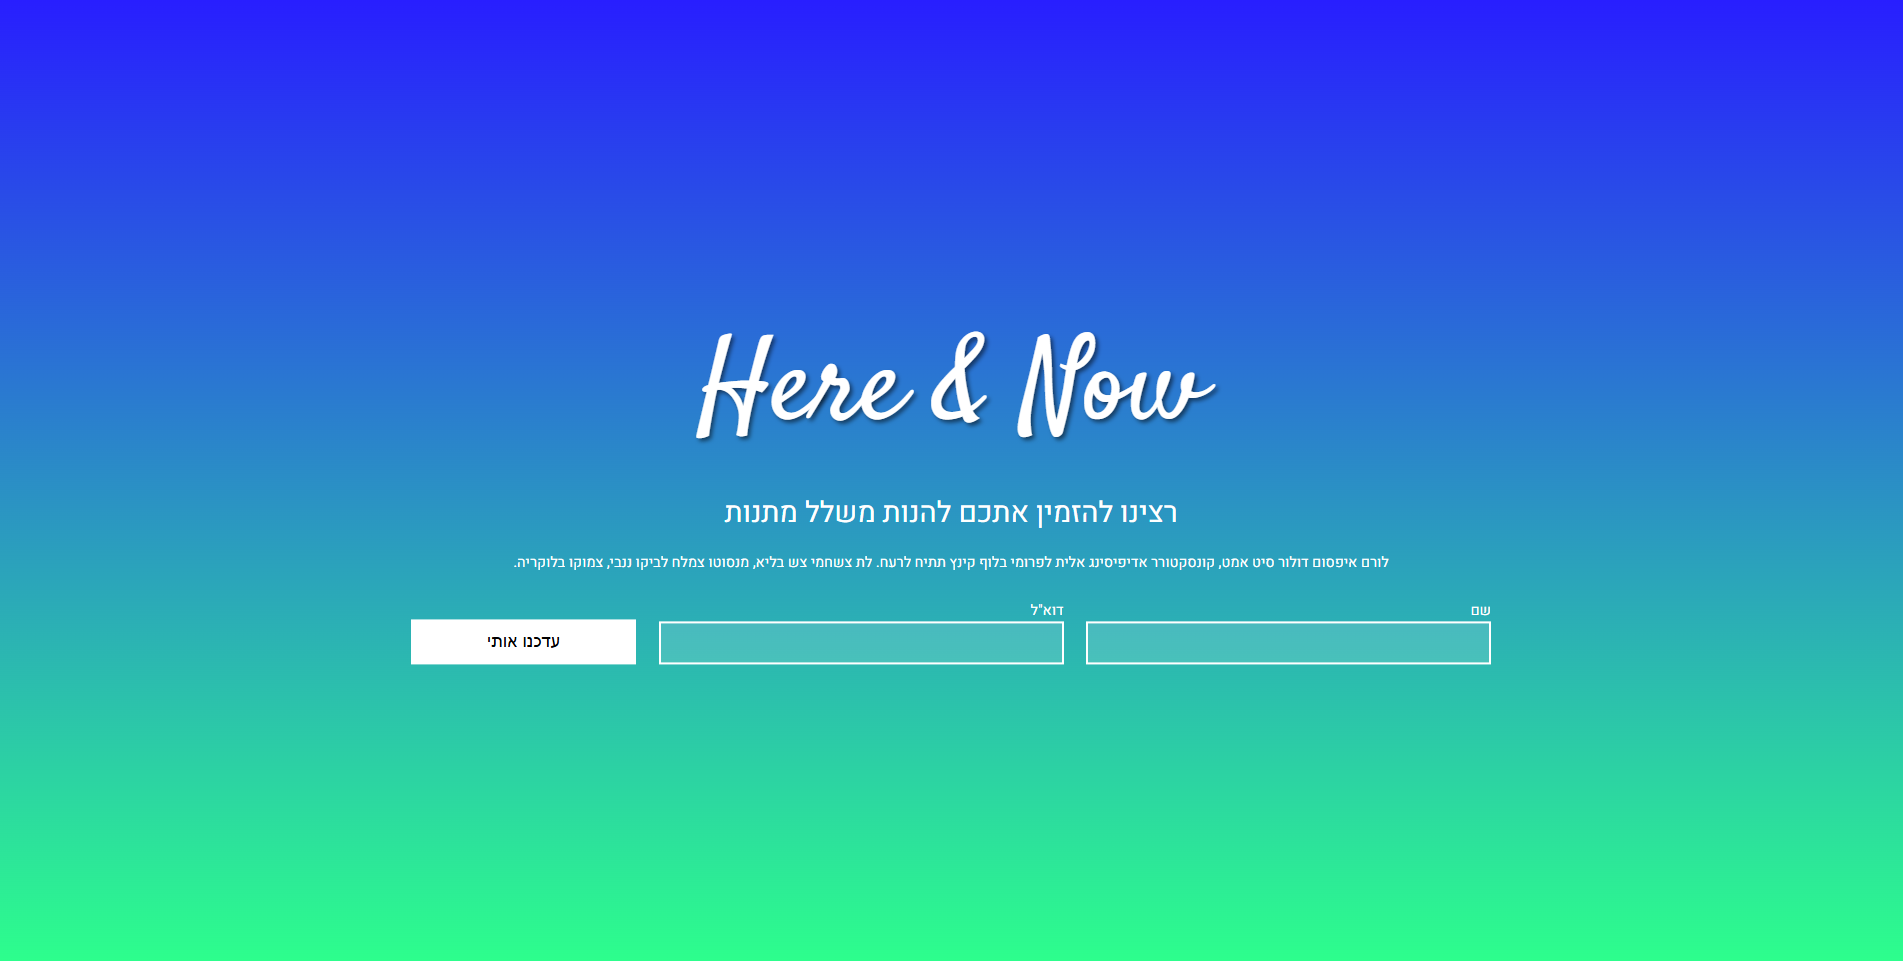
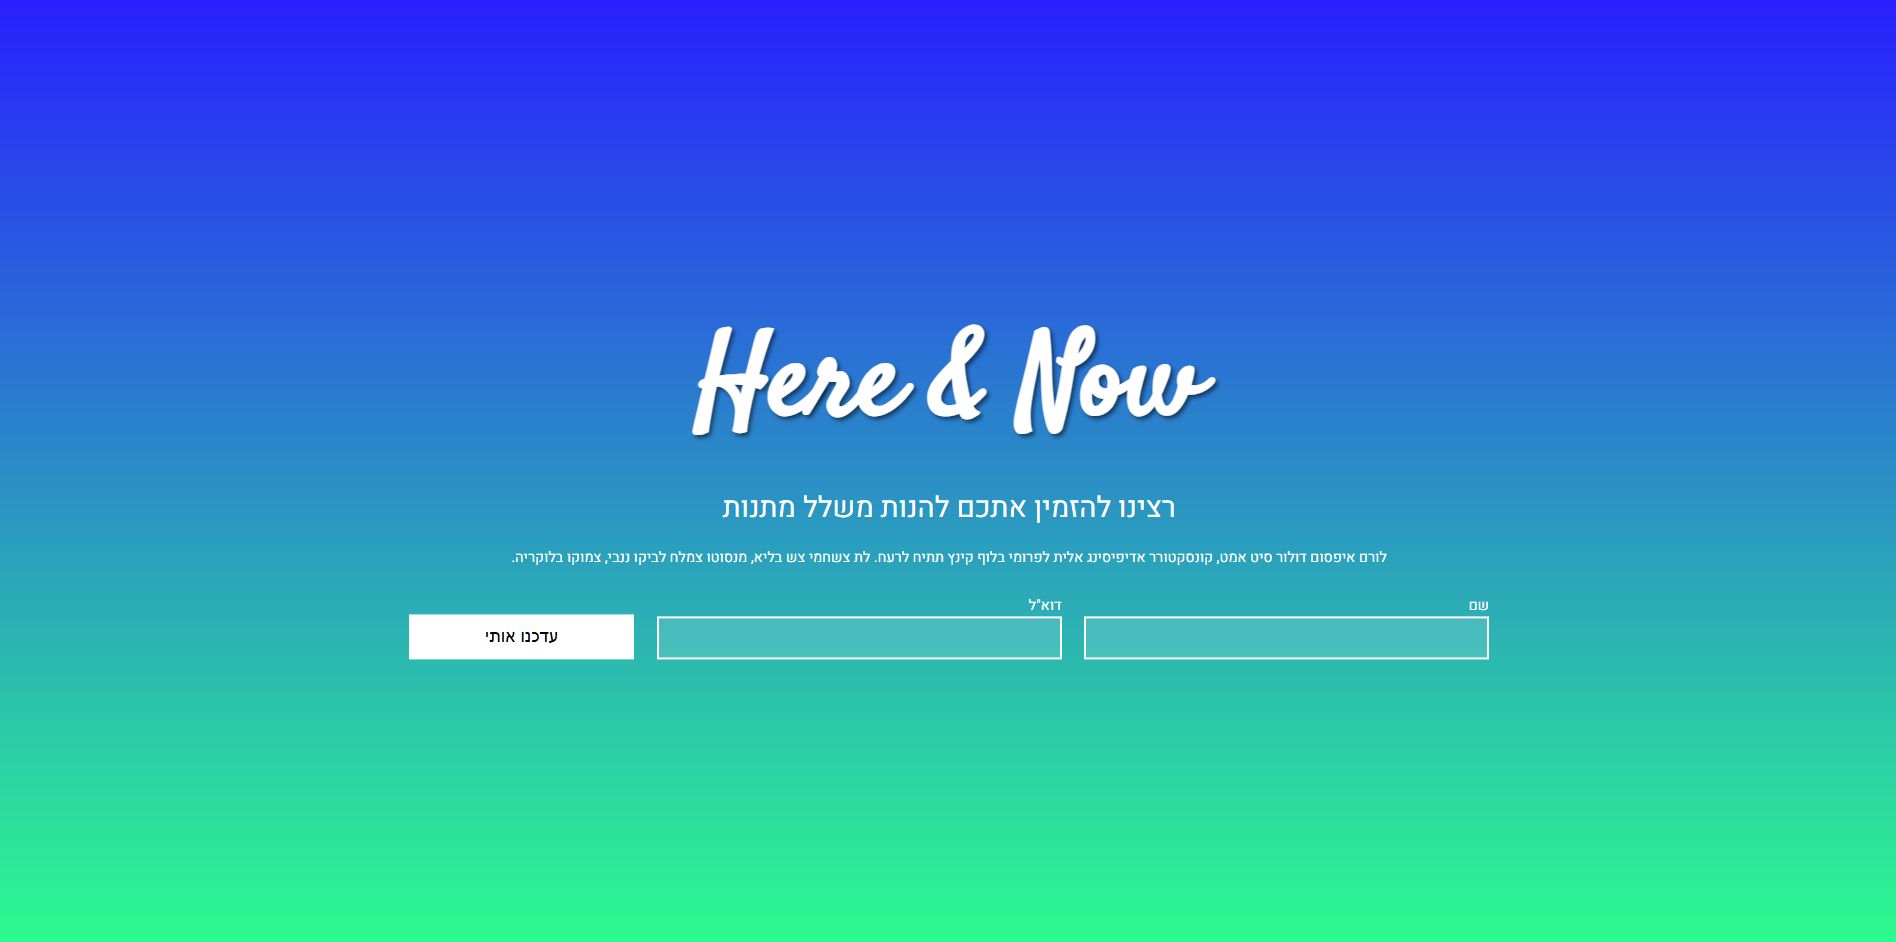
responsive - fixed

Changed region(s): [[0.2178, 0.5234, 0.8091, 0.7081], [0.3423, 0.3386, 0.6535, 0.4618]]

diff --git a/projects/project2/project2.css b/projects/project2/project2.css
@@ -37,7 +37,8 @@ label {
     margin: 0 auto;
     align-items: center;
     justify-content: space-between;
-    width: 1200px;
+    max-width: 1200px;
+    width: 100vw;
 }
 
 .container form {
@@ -46,8 +47,8 @@ label {
     display: flex;
     justify-content: space-between;
     margin: 10px;
-    align-items: end;
-
+    align-items: center;
+    gap: 20px;
 }
 
 .form-control {
@@ -67,8 +68,7 @@ input[type="email"] {
     font-weight: bold;
     color: var(--primary-color);
     line-height: 1.5;
-    height: 3em;
-    width: calc(100vw / 2 - 150px);
+    width: calc((80vw / 2) - 150px);
     max-width: calc(1200px / 2 - 150px);
     border: 3px solid var(--primary-color);
 }
@@ -96,7 +96,7 @@ input[type="submit"]:hover {
 
 .container-form-title h1 {
     font-size: 8rem;
-    font-weight: 400;
+    font-weight: regular;
     margin: 20px;
     font-family: "Satisfy", serif;
     text-shadow: #00000087 3px 3px 5px;
@@ -113,38 +113,36 @@ input[type="submit"]:hover {
     margin: 20px;
 }
 
-@media (max-width: 768px) {
-    .container {
-        flex-direction: column-reverse;
-
+@media (max-width: 1199.98px) {
+    .container form {
+        flex-direction: column;
     }
 
-    .container-img {
-        width: 100vw;
+    .form-control {
+        max-width: none;
     }
 
-    .container-img img {
-        height: 40vh;
-    }
-
-    .container-form {
-        width: 100vw;
-    }
-
-    .container-form-title {
-        margin-top: 2em;
-    }
-
-    input[type="submit"] {
-        width: 100%;
-        margin-top: 2em;
-        max-width: 420px;
+    .container form {
+        flex-direction: column;
+        align-items: center;
     }
 
     input[type="text"],
     input[type="email"] {
-        font-size: 1rem;
-        height: 2em;
-
+        width: 80vw;
+        max-width: none;
     }
-}
+
+    input[type="submit"] {
+        width: 80vw;
+    }
+
+    @media (max-width: 768px) {
+        .container-form-title h1 {
+            font-size: 5rem;
+            font-weight: regular;
+            margin: 20px;
+            font-family: "Satisfy", serif;
+            text-shadow: #00000087 3px 3px 5px;
+        }
+    }
